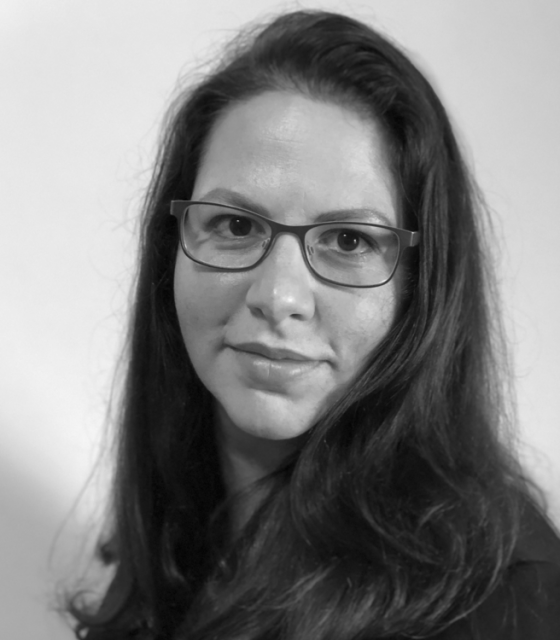
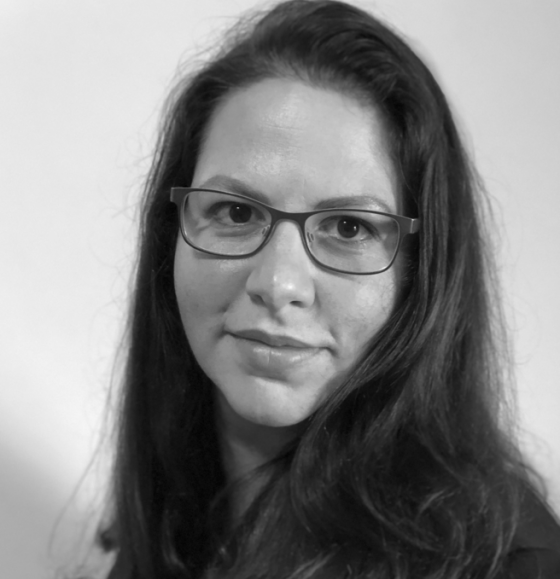
Updates for readme

diff --git a/README.md b/README.md
@@ -110,7 +110,7 @@ If you use WebRAG in your research, please cite our work:
 ```bibtex
 @inproceedings{yourname2025webrag,
   title={Enhancing Retrieval-Augmented Generation with Document Link Structure for Multi-hop Web Question Answering},
-  author={Your Name et al.},
+  author={Sara Mazaheri, Ali Dadashzadeh, Arash Niroumand, Renata Dividino},
   booktitle={LLMs Meet Dataset Workshop (LMD 20205). In conjunction with the 35th IEEE International Conference on Collaborative Advances in Software and Computing (CASCON 20205).}
   publisher={IEEE},
   year={2025}
@@ -128,25 +128,26 @@ If you use WebRAG in your research, please cite our work:
 
 <table align="center">
   <tr>
+      <td align="center">
+      <img src="img/sara.jpg" width="120" style="border-radius:50%;" alt="Sara"><br>
+      <b>Sara Mazaheri</b><br>
+      <a href="https://www.linkedin.com/in/sara-mazaheri-399a6b191/">LinkedIn</a>
+    </td>
+    <td align="center">
     <td align="center">
       <img src="img/ali2.jpg" width="120" style="border-radius:50%;" alt="Ali"><br>
       <b>Ali Dadashzadeh</b><br>
       <a href="https://www.linkedin.com/in/dadashzadeh-ali/">LinkedIn</a>
     </td>
     <td align="center">
-      <img src="img/Renata.png" width="120" style="border-radius:50%;" alt="Renata"><br>
-      <b>Renata Dividino</b><br>
-      <a href="https://www.linkedin.com/in/renatadividino/">LinkedIn</a>
-    </td>
-    <td align="center">
-      <img src="img/sara.jpg" width="120" style="border-radius:50%;" alt="Sara"><br>
-      <b>Sara Mazaheri</b><br>
-      <a href="https://www.linkedin.com/in/sara-mazaheri-399a6b191/">LinkedIn</a>
-    </td>
-    <td align="center">
       <img src="img/arash.jpg" width="120" style="border-radius:50%;" alt="Arash"><br>
       <b>Arash Niroumand</b><br>
       <a href="https://www.linkedin.com/in/arash-niroumand-7345ba227/">LinkedIn</a>
+    </td>
+        <td align="center">
+      <img src="img/Renata.png" width="120" style="border-radius:50%;" alt="Renata"><br>
+      <b>Renata Dividino</b><br>
+      <a href="https://www.linkedin.com/in/renatadividino/">LinkedIn</a>
     </td>
   </tr>
 </table>
